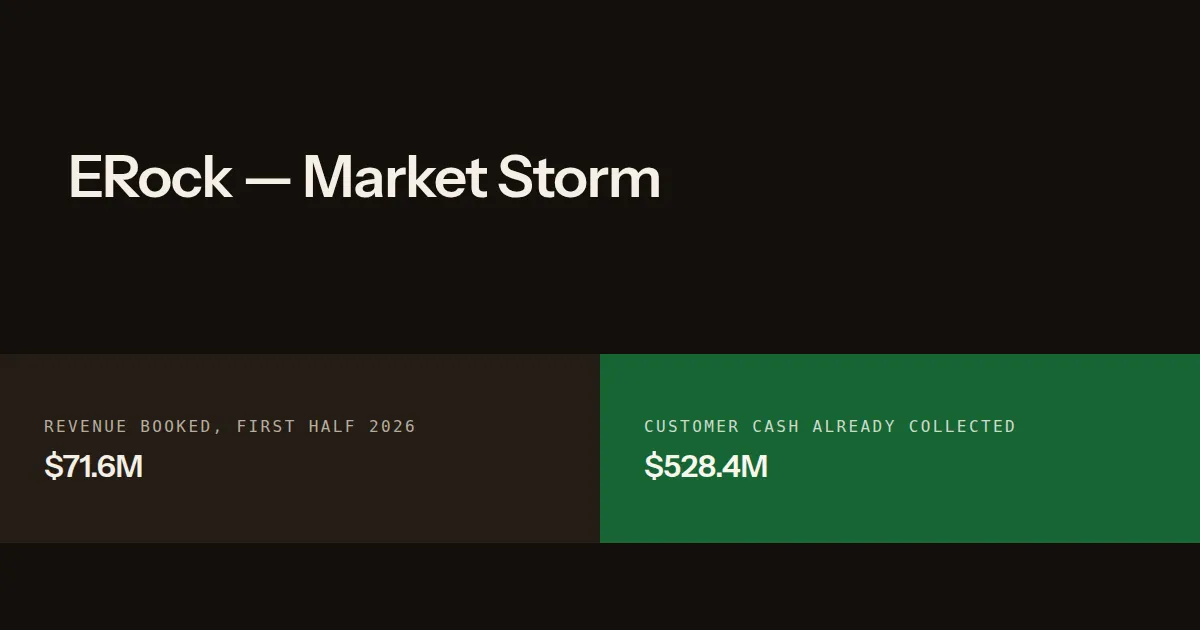
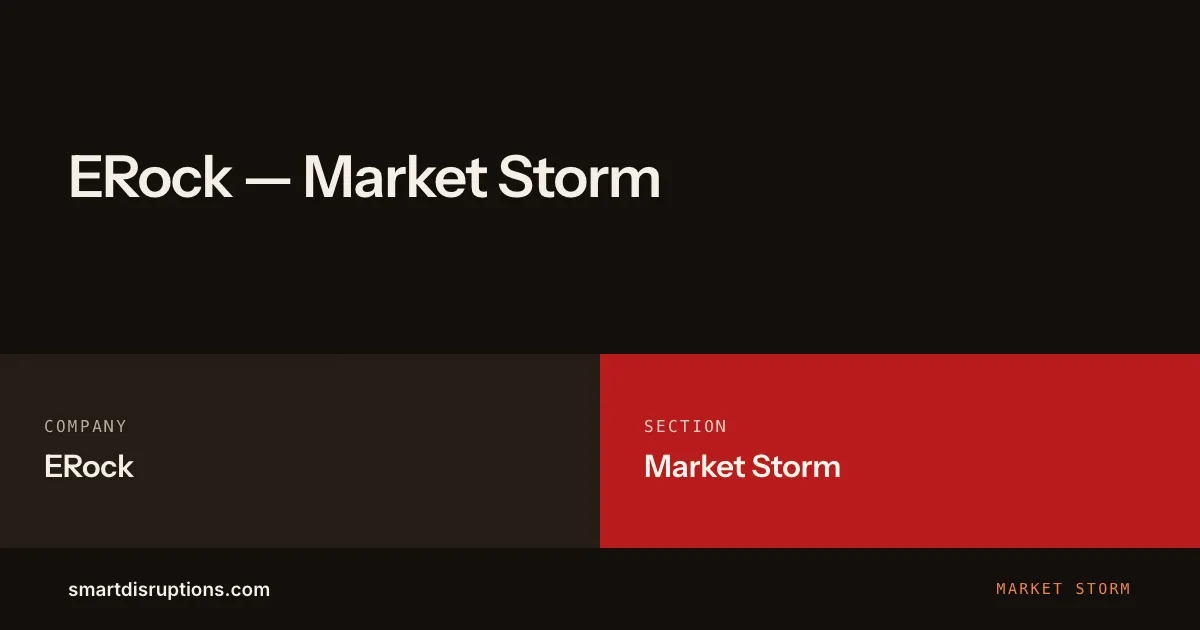
Give the ERock report its company mark
The EROC card was a text split because the report was written from a phone and
no logo was to hand. It now carries the mark, like the other nine.

Finding it took a detour worth recording. There is no Commons file, and the
obvious search is actively misleading: "Enchanted Rock" on Commons returns
photographs of the Texas granite dome the company is named after — freely
licensed, and not the company. erock.com serves no logo file either; the mark
is an inline <symbol id="logo"> in the page's SVG sprite, referenced by
<use href="#logo"> from the header, and was lifted from there as a standalone
SVG.

It needs no knockout. The striped device and the wordmark sit side by side
rather than one being punched through the other, so a single-colour mask reads
correctly in both themes — which is the point worth carrying: knockout is for
overlapping marks, not for every two-colour one. Regenerating the Google and
IREN cards produces byte-identical files, so neither path moved.

Provenance recorded in SOURCES.md as a third publisher-served example
alongside Nebius's media kit and IREN's site asset, on the same nominative-use
basis. Alt text is now "ERock logo" rather than the old split's sentence.

diff --git a/src/data/marketStorm.ts b/src/data/marketStorm.ts
@@ -8350,8 +8350,7 @@ And it is the clearest read yet on how the capex cycle reaches ground. Alphabet 
   },
   cardImage: '/images/content/eroc-q2-2026-card-hero.webp',
   cardImageLight: '/images/content/eroc-q2-2026-card-hero-light.webp',
-  cardImageAlt:
-    'ERock booked $71.6 million of revenue in the first half of 2026 while holding $528.4 million of customer deposits',
+  cardImageAlt: 'ERock logo',
   sources: [
     {
       n: 1,

diff --git a/scripts/logos/SOURCES.md b/scripts/logos/SOURCES.md
@@ -14,6 +14,7 @@ shape.
 |---|---|---|
 | `amzn.svg` | [Amazon logo.svg](https://commons.wikimedia.org/wiki/File:Amazon_logo.svg) | Public domain |
 | `iren.svg` | [IREN site asset](https://iren.com/icons/logo.svg) | Publisher-served asset — **not** Commons PD; knockout, see note below |
+| `eroc.svg` | [ERock site asset](https://erock.com/) — inline `<symbol id="logo">` | Publisher-served asset — **not** Commons PD; see note below |
 | `goog.svg` | [Google 2015 logo.svg](https://commons.wikimedia.org/wiki/File:Google_2015_logo.svg) | Public domain |
 | `crwv.svg` | [CoreWeave logo.svg](https://commons.wikimedia.org/wiki/File:CoreWeave_logo.svg) | Public domain |
 | `msft.svg` | [Microsoft logo (2012).svg](https://commons.wikimedia.org/wiki/File:Microsoft_logo_(2012).svg) | Public domain |
@@ -55,3 +56,17 @@ just drawn rather than stencilled.
 wrong, and the reason is worth keeping: "the mark does not mask" is a fact about
 the renderer, not about the mark. Check whether the logo is a knockout before
 concluding it cannot be reversed.
+
+**ERock's mark came out of the page, not a file.** There is no Commons logo —
+searching Commons for "Enchanted Rock" returns photographs of the Texas granite
+dome the company is named after, which is a trap worth naming: those are freely
+licensed and they are not the company. erock.com serves no logo file either.
+The mark is an inline `<symbol id="logo">` in the page's SVG sprite, referenced
+by `<use href="#logo">` from the header, and it was lifted from there as a
+standalone SVG. Same nominative-use basis as the rest; a third example of the
+publisher-served category alongside Nebius and IREN.
+
+It masks cleanly with no `knockout` needed — the striped device and the wordmark
+sit side by side rather than one being punched through the other, so a single
+colour reads correctly. Worth checking that before reaching for `knockout`: the
+option exists for overlapping marks, not for every two-colour one.
